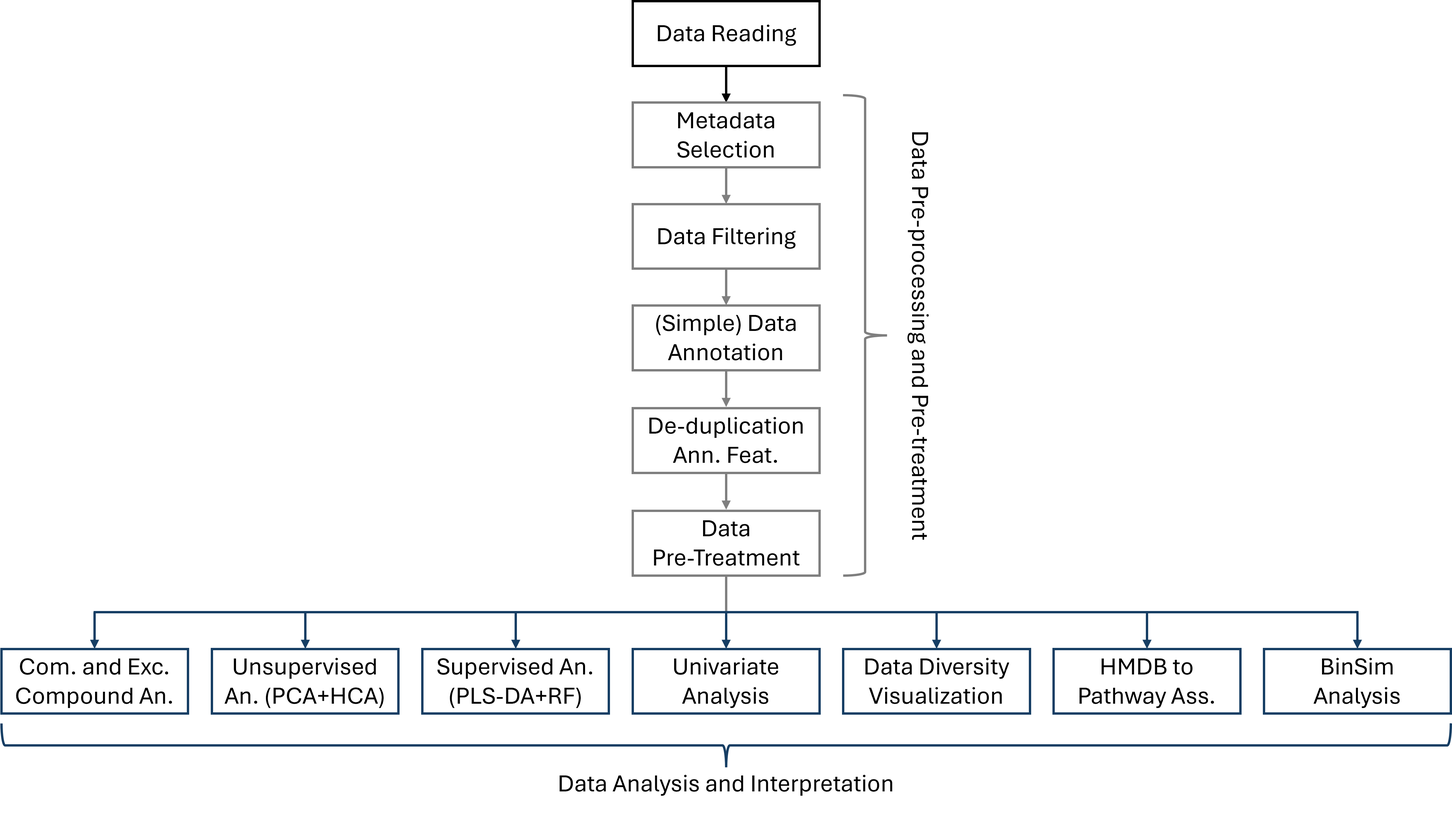
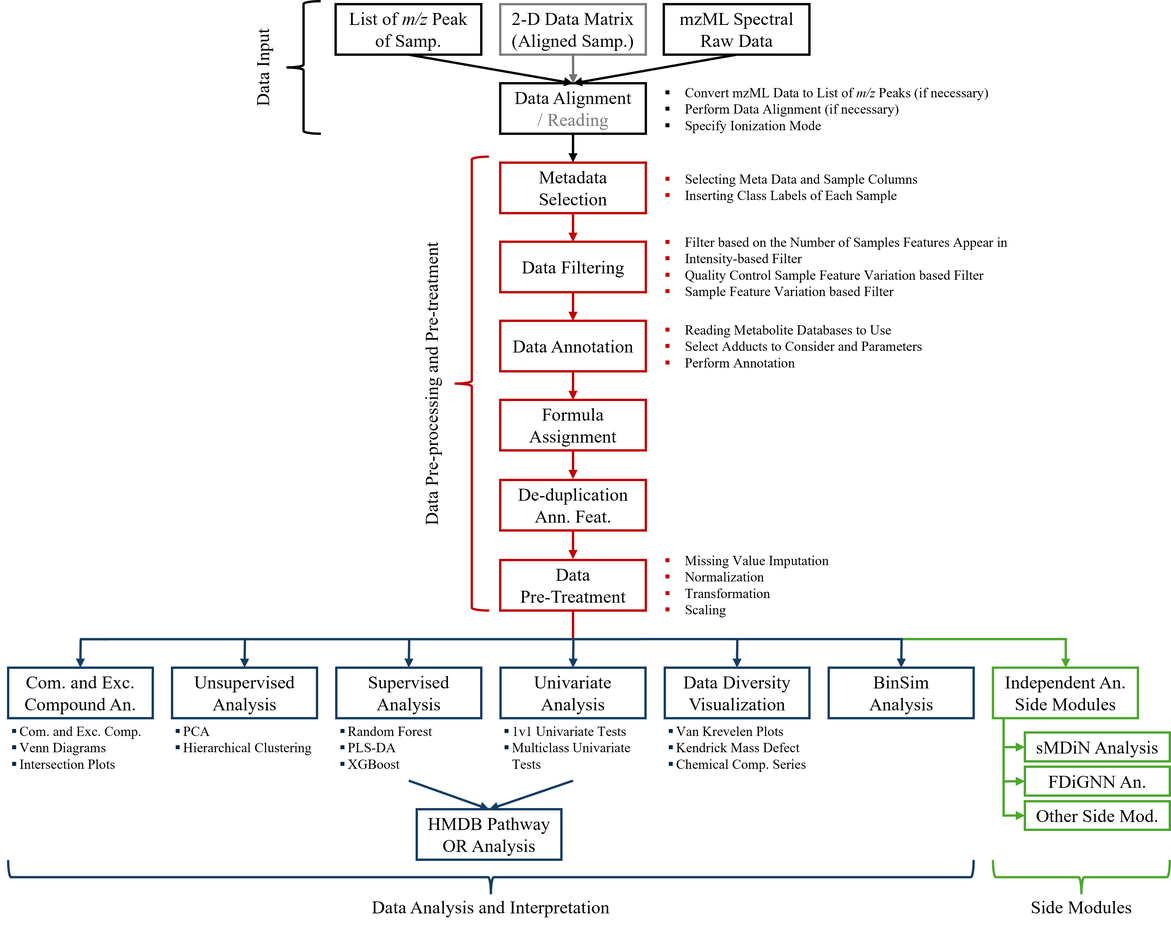
Updated some documentation.

diff --git a/MetsTA_DOCS/docs/GUI_docs.md b/MetsTA_DOCS/docs/GUI_docs.md
@@ -1,13 +1,15 @@
 
-## Starting the Graphical Interface of MetsTA
+## Starting the Graphical Interface of NEMeSIS
 
-I am still unsure of what will be the final version to open the graphical interface. 
+NEMeSIS incldues a large main program to perform the analysis from Data Tables to Biological Interpretation where most of this tutorial is focused. Other than this interface, a separated Data Alignment Software capable of converting mzML raw data to mass peak lists and alignment of mass peak lists to create data tables used as input for the main NEMeSIS program. For details and instructions on the latter see [Data Alignment Software](GUI_docs.md#data-alignment-software).
 
-**CHANGE THIS WHEN THE STARTING METHOD IS DECIDED.**
+## Opening NEMeSIS
 
-## Introduction to the Graphical Interface of MetsTA
+**TODO**!!!!!!!!!!!!!!!!!!!!!!!!!!!!!!!!!
 
-When opening the software, you are greeted with a page such as the one presented below that should open in your browser of choice. 
+## Introduction to the Graphical Interface of NEMeSIS
+
+When opening NEMeSIS, you are greeted with a page such as the one presented below that should open in your browser of choice.
 
 Here, you can see on the on the left-hand side of the page (in a black box), you get an index-like column with buttons for every main page of the software. Most will be locked off in the beginning since they require other steps to be completed first before accessing. This is the main way to access different pages in the software. The first button (`Home`) and initial homepage of the software leads you to an introduction of what this software is and what analysis steps it includes. The second button (`Considerations and Instructions`) takes you to a few explanations and clarification on the workings of the software, which are also present here at the end of the page in [Tips and Precautions](GUI_docs.md#tips-and-precautions). From then on, we go onto the data analysis pages.
 
@@ -17,15 +19,17 @@ The green box marks the main section where the page currently selected appears. 
 
 The data analysis pipeline is divided into 3 stages:
 
-1. Data Reading (a single page so it is in the Data Pre-Processing and Pre-Treatment section)
+1. Data Input (a single page in the Data Pre-Processing and Pre-Treatment section). Image als shows steps performed by the Data Alignment Software
 2. Data Pre-Processing and Pre-Treatment
 3. Data Analysis and Biological Intepretation (Statistical Analysis)
 
+Note: Independent Side Modules are only available in jupyter notebooks. See [Independent Side Modules](jupyter_docs.md#independent-side-modules) in the jupyter notebook page.
+
 ![GUI Structure](img/GUIStructure.png)
 
-## Stage 1: Data Reading
+## Stage 1: Data Input
 
-The first section of the data analysis pipeline is data reading, that is, the data you will input to the program and thus requires a strict formatting from the files. The software accepts already data tables with the raw data of the sample having already been previously aligned. From then on, the software is capable of performing the remaining data analysis.
+The first section of the data analysis pipeline is data reading, that is, the data you will input to the program and thus requires a strict formatting from the files. The software accepts already data tables with the raw data of the sample having already been previously aligned. From then on, the software is capable of performing the remaining data analysis. See [Data Alignment Software](GUI_docs.md#data-alignment-software) for instructions on how to obtain these data tables using our standalone Data Alignment Software from mzML raw data or peak lists.
 
 This formatting is exemplified in the figure below with the addition that files can either be `.csv` or `.xlsx` files. Metabolic Features should be represented in the rows, while samples and metadata should be represented in columns. 
 
@@ -33,7 +37,7 @@ The first column in your data must correspond to the identifier of your metaboli
 
 !!! danger
 
-    Avoid having a column named `Neutral Mass` in your data, since it will be overwritten.
+    Avoid having a column named `Neutral Mass` or `m/z` in your data, since it will be overwritten.
 
 The remaining columns are free to be any metadata you have in your data (green box) and the samples with the corresponding intensity values (purple box). If you are using LC-MS or GC-MS or any other kind of hyphenated method and have another column other than mass to characterize your features such as retention time, you can still analyse them and identify this columns as metadata but they will not be used for data annotation or any other step in the analysis.
 
@@ -49,13 +53,13 @@ After data is read, the next step of the analysis will be unlocked (loading an e
 
 ## Stage 2: Data Pre-Processing and Pre-Treatment
 
-The second stage of the software is the Data Pre-Processing and Pre-Treatment that includes many sub-sections: [Metadata Selection](GUI_docs.md#metadata-selection), [Data Filtering](GUI_docs.md#data-filtering), [Data Annotation](GUI_docs.md#data-annotation), [De-Duplication of Annotated Features](GUI_docs.md#de-duplication-of-ann-features) and [Data Pre-Treatment](GUI_docs.md#data-pre-treatment).
+The second stage of the software is the Data Pre-Processing and Pre-Treatment that includes many sub-sections: [Metadata Selection](GUI_docs.md#metadata-selection), [Data Filtering](GUI_docs.md#data-filtering), [Data Annotation](GUI_docs.md#data-annotation), [Formula Assignment](GUI_docs.md#formula-assignment), [De-Duplication of Annotated Features](GUI_docs.md#de-duplication-of-ann-features) and [Data Pre-Treatment](GUI_docs.md#data-pre-treatment).
 
 All these sections are mandatory and are progressed and unlocked one by one in a linear fashion. You can redo previous parts of the pre-treatment. If you **change any part of the pre-treatment**, posterior pre-treatment steps and statistical analysis will immediately **be locked** and will **erase previous statistical analysis** if any has been performed. This is to avoid situations where the user wanted to change the pre-treatment but forgot to re-apply posterior pre-treatment steps. Thus, it is necessary to keep coherency.
 
 #### Metadata Selection
 
-Here, you will be asked to select which columns of your data are metadata (non-sample columns). If this metadata includes formula assignment or metabolite compound annotation columns, you can select them in their corresponding spots so they can be used downstream as that. Furthermore, you can select a column that contains the mass values of your metabolic features, whether it is the `Neutral Mass` or `Probable m/z` columns created in the previous section or another prepared previously that will be used for `Data Annotation` (if `None` is chosen, `Data Annotation` cannot be performed). Other metadata will not be used in the analysis.
+Here, you will be asked to select which columns of your data are metadata (non-sample columns). If this metadata includes formula assignment or metabolite compound annotation columns, you can select them in their corresponding spots so they can be used downstream as that. Furthermore, you can select a column that contains the mass values of your metabolic features, whether it is the `Neutral Mass` or `Probable m/z` columns created in the previous section or another prepared previously that will be used for `Data Annotation` (if `None` is chosen, `Data Annotation` cannot be performed). Finally, you can select Quality Control (QC) samples that will be separated from the remaining ones (they will not be used in the statistical analysis but can be used for Quality Control Sample based Data Filtering). Other metadata will not be used in the analysis.
 
 After selecting it, either a target will try to be inferred from the name of your samples or it will be taken from your data (if it was present). In either case, you can edit your target to your needs, before confirming it and moving to the next section.
 
@@ -63,13 +67,23 @@ After selecting it, either a target will try to be inferred from the name of you
 
 #### Data Filtering
 
-Data Filtering is used to _clean_ the dataset of features that appear in very few samples. You can select to perform Data Filtering either by keeping features if they appear at least in **n** samples from the total number of samples in your dataset (`Total Samples` method) or in **n** samples of at least one specific class in your data (`Class Samples` method). This **n** is referred to as the _feature filter keyword_ and can go from 1 to the number of samples in your data in the first case or to the number of samples of your least populated class in the second. After Data Filtering, a small table detailing some characteristics of your data as well as your dataset will be shown.
+Data Filtering is used to _clean_ the dataset of features that appear in very few samples. You can select to perform Data Filtering by 4 different procedures.
+
+1) **Filtering based on the number of samples each feature appears in**. This will only include features that appear in a determined number **n** of either the total samples of the dataset (`Total Samples` method) or of at least the samples of one class (`Class Samples` method). It can be used, for example to filter experimental artifacts. This **n** is referred to as the _feature filter keyword_ and can go from 1 to the number of samples in your data in the first case or to the number of samples of your least populated class in the second.
+
+2) **Filtering based on intensity values**. This will filter metabolic features based on their intensity values as calculated by the mean or median over the samples they appear in, removing lower intensity features. A hard threshold with a set intensity value is used or a percentage based threshold where the percent lowest intensity of features are removed.
+
+3) **Filtering based on the feature variance of Quality Control samples**. Only available if you have at least three QC samples as selected in the previous page. This will eliminate features that have high variance in the quality control samples (where they should be equal) as estimated by relative standard deviation (standard deviation / mean) above a determined threshold, since that points that they are not reproducible. Features that do not appear in the QC samples are assumed to have 0 variance.
+
+4) **Filtering based on the feature variance of analysed samples**. This filtering is not recommended to use if you are looking for exclusive metabolic features in the classes of your datasets or if you aim to use feature occurrence data. It will filter out the lowest variance features across the samples since their intensity patterns would not be informative.
+
+After Data Filtering, a small table detailing some characteristics of your data as well as your dataset will be shown.
 
 #### Data Annotation
 
 Next up, we have Data Annotation. This step is only possible if you have a Mass column as selected in the earlier section (either created in the software based on mass values provided or previously obtained) that represents the masses of the metabolites detected as numbers. 
 
-You can skip this step by annotation with _0_ databases. Or you can select 1 to 5 databases to perform independent annotations. A database must have a compound ID column, a compound name column and a compound formula column (that is used to calculate the compound theoretical mass used for annotation). To use a database, it should be on the directory where MetsTA is located and you must provide a series of informations such as the file name and the column identifier of the ID, name and formula of the compounds. You will also be asked for an abbreviated name of the database to use (for example, HMDB for Human Metabolome Database).
+You can skip this step by selecting annotation with _0_ databases. Or you can select 1 to 5 databases to perform independent annotations. A database must have a compound ID column, a compound name column and a compound formula column (that is used to calculate the compound theoretical mass used for annotation). To use a database, it should be on the directory where NEMeSIS is located and you must provide a series of informations such as the file name and the column identifier of the ID, name and formula of the compounds. You will also be asked for an abbreviated name of the database to use (for example, HMDB for Human Metabolome Database). If the Database contains a column with KEGG compound IDs, this information will also be conserved in the annotation if and only if the column is named 'kegg'.
 
 After loading your desired databases, you can choose a maximum threshold of deviation between the theoretical masses of the compounds in the database and the neutral masses in the dataset. This can be a flat threshold (`Absolute Dalton Deviation`) or a parts per million based threshold (`PPM Deviation`) (1).
 { .annotate }
@@ -78,11 +92,15 @@ After loading your desired databases, you can choose a maximum threshold of devi
 
 Finally, you can decide which adducts to search by inputting the adduct name and consequent mass shift they cause on a neutral mass. This should be inputted in the following format "Adduct_Name : Mass_Shift_to_neutral_mass". As an example: "[M+H]+ : 1.007276451988935". The software automatically provides an example of common adducts to search based on if `Positive (m/z)` ([M+H]+, [M+Na]+, [M+K]+), `Negative (m/z)` ([M-H]-, [M+Cl]-) or `Neutral` ([M]) were chosen in Step 1.
 
-With these parameters selected, you can perform the annotation. The annotation is made by comparing the dataset's masses with the databases. Every compound in the database that fall within the error margin threshold chosen to a given metabolite feature is annotated to that feature. Thus, very often features have multiple annotations associated (for example, every isomer in a database will be annotated if one is). This annotation is based on the fact that the mass value of a feature is not enough to differentiate and choose between different isomers. The results of the annotation of our data based on an individual database is the creation of 3 metadata columns: for each metabolic feature, one has a list of compound IDs annotated, another of compound names and another of compound formulas (1). This is made independently for each database selected, that is, every single database selected will generate 3 new columns with their own annotations (2).
+With these parameters selected, you can perform the annotation. Before the annotation, all selected databases will be merged together. The annotation is made by comparing the dataset's masses with the databases. Every compound in the database that fall within the error margin threshold chosen to a given metabolite feature is annotated to that feature. Thus, very often features have multiple annotations associated (for example, every isomer in a database will be annotated if one is). This annotation is based on the fact that the mass value of a feature is not enough to differentiate and choose between different isomers. The results of the annotation of our data based on an individual database is the creation of 5 metadata columns: for each metabolic feature, one has a list of compound IDs annotated, another of compound names, another of compound formulas, another with the corresponding adducts and the last with the database where the annotated compounds were present (1). If KEGG compound IDs are detected in a database a 6th metadata column will be created with these KEGG IDs (2).
 { .annotate }
 
-1. The lists are in the same order in the 3 columns. Thus, the 3rd compound ID in its list corresponds to the 3rd compound name in its list.
-2. This is not ideal but avoids the issue of database merging leading to the same metabolite being represented multiple times due to a lack of a standardized metabolite identifier.
+1. The lists are in the same order in the 5 columns. Thus, the 3rd compound ID in its list corresponds to the 3rd compound name in its list.
+2. The KEGG ID columns are detected by their name - the name must be 'kegg'.
+
+#### Formula Assignment
+
+Blah blah, Lorem Ipsum even maybe a bit of dolor.
 
 #### De-Duplication of Ann. Features
 
@@ -200,19 +218,19 @@ The report generation creates a folder with a user chosen name. This folder cont
 
 !!! note
 
-    If you find a mistake in the generated report, such as a parameter used in the analysis not being the one that is in the report or in the associated figures, please inform us thorugh [https://github.com/fticr-sms/Metabolomics_DataAnalysis_Pipeline/issues](https://github.com/fticr-sms/Metabolomics_DataAnalysis_Pipeline/issues). We would greatly appreciate so we can iron out any loose ends and problems with the software.
+    If you find a mistake in the generated report, such as a parameter used in the analysis not being the one that is in the report or in the associated figures, please inform us through [https://github.com/fticr-sms/Metabolomics_DataAnalysis_Pipeline/issues](https://github.com/fticr-sms/Metabolomics_DataAnalysis_Pipeline/issues). We would greatly appreciate so we can iron out any loose ends and problems with the software.
 
 Parameter saving is a function that specifically aims to save the **currently used parameters** in the analysis for future use on another analysis. It is available at two different locations in the interface: at the end of the data pre-processing and pre-treatment stages and in the report generation page. The former only saves parameters regarding the data pre-processing and pre-treatment steps while the latter saves all currently used parameters in the software. Although most more significant parameters are saved, there are some that cannot be saved since they are very specific to the dataset currently under analysis. A few examples are the metadata columns selected or the control/test class used in Univariate Analysis.
 
-The idea behind parameter saving is that you can load in these parameters and the `Data Reading` page of the software to use in other posterior analysis. Furthermore, when loading in there are some parameters that might not be applicable to the current case such as the feature used in Normalization by a Reference Feature or the minimum number of samples used in data filtering. For these cases, a check will be made to see if they can be used and if not, the default value will remain.
+The idea behind parameter saving is that you can load in these parameters and the `Data Reading` page of the software to use in other posterior analysis. Furthermore, when loading in parameters, there are some parameters that might not be applicable to the current case such as the feature used in Normalization by a Reference Feature or the minimum number of samples used in data filtering. For these cases, a check will be made to see if they can be used and if not, the default value will remain.
 
 !!! warning
 
-    Some parameters are saved but should still always be adapted based on the dataset analyse. A case and point is that of the number of components used for building PLS-DA models. This number highly affects the performance of the models and is characteristic of the dataset used. Thus it should always be adapted to the current dataset. Other parameters such as pre-treatment related can be used on a standard preferred pipeline independent of the dataset analysed.
+    Some parameters are saved but should still always be adapted based on the dataset analysed. A case and point is that of the number of components used for building PLS-DA models. This number highly affects the performance of the models and is characteristic of the dataset used. Thus, it should always be adapted to the current dataset. Other parameters such as pre-treatment related can be used on a standard preferred pipeline independent of the dataset analysed.
 
 !!! info
 
-    Within the saved parameters, there are some that are saved based on what is currently present in the program and not what was originally used for the analysis: these are the methods used for the common and exclusive compound analysis, the minimum and maximum number of components used for optimization of the PLS-DA, the model performance evaluation metrice used, the dpi of the permutation figure and number of iterations used in the ROC analysis of the PLS-DA section (for both intensity treated data and BinSim treated data) and the model performance evaluation metrice used and the dpi of the permutation figure of the Random Forest section (for both intensity treated data and BinSim treated data).
+    Within the saved parameters, there are some that are saved based on what is currently present in the program and not what was originally used for the analysis: these are the methods used for the common and exclusive compound analysis, the minimum and maximum number of components used for optimization of the PLS-DA, the model performance evaluation metrice used, the dpi of the permutation figure and number of iterations used in the ROC analysis of the PLS-DA section (for both intensity treated data and BinSim treated data) and the model performance evaluation metrics used and the dpi of the permutation figure of the Random Forest section (for both intensity treated data and BinSim treated data).
 
 ## Closing and Resetting the Software
 
@@ -223,6 +241,8 @@ If you want to redo your analysis with another dataset, you may use the `RESET` 
 !!! bug
 
     After resetting the software once using the `RESET` button, when clicking it again, the window pane to confirm the reset might not appear. To fix this issue, refresh the image and it should appear once again.
+
+## Data Alignment Software Instructions
 
 ## Tips and Precautions
 

diff --git a/MetsTA_DOCS/docs/index.md b/MetsTA_DOCS/docs/index.md
@@ -1,11 +1,11 @@
-# Welcome to MetsTA
+# Welcome to NEMeSIS
 
-MetsTA (**Met**abolomic**s** **T**reatment and **A**nalysis Software) is a software geared towards FT-ICR-MS extreme-resolution mass spectrometry data. For this objective, it offers a complete pipeline from **aligned data tables to data interpretation** in two different formats (both built with the Python programming language) based on the users preference.
+NEMeSIS (**N**ovel **E**xtreme-resolution **Me**tabolomics **S**treamlined data analysis **I**ntegrated **S**oftware) is a software geared towards FT-ICR-MS extreme-resolution mass spectrometry data. For this objective, it offers a complete pipeline from **raw data (in mzML format) or peak lists to data interpretation** in two different formats (both built with the Python programming language) based on the users preference.
 
-- Jupyter Notebook for a more hands on approach for intermediate (or higher) experienced Python users to take advantage of the implemented metabolomics data analysis workflow and customize it to their liking. The file to start to experience MetsTA in this way is `Met_Data_Analysis_Standard.ipynb` - see details on [Get started with jupyter](jupyter_docs.md) page.
+- Jupyter Notebook for a more hands on approach for intermediate (or higher) experienced Python users to take advantage of the implemented metabolomics data analysis workflow and customize it to their liking. The file to start to experience NEMeSIS in this way is `Met_Data_Analysis_Standard.ipynb` - see details on [Get started with jupyter](jupyter_docs.md) page.
 - Graphical Interface for a more streamlined experience for non-experienced Python users where no coding knowledge is necessary and results are shown in an interactive format. The file to start to experience MetsTA in this way is `InterfacePrototype_Standard.py`. Detailed instructions and ways to start up the program are in the [Get started with GUI](GUI_docs.md) page.
 
-Here, on this page, we will detail on how to install this software and dependencies to run them. Then, we will have a separate page for each main way to use MetsTA with a tutorial on how to use them.
+Here, on this page, we will detail on how to install this software and dependencies to run them. Then, we will have a separate page for each main way to use NEMeSIS with a tutorial on how to use them.
 
 Software made by: **FT-ICR and Structural Mass Spectrometry Laboratory, BioISI, Faculdade de Ciências da Universidade de Lisboa** ([http://ft-icr.rd.ciencias.ulisboa.pt/](http://ft-icr.rd.ciencias.ulisboa.pt/)).
 
@@ -14,9 +14,9 @@ If you use this software in your untargeted metabolomcis data analysis, we would
 - Paper Link: <strong>(LINK)</strong><br>
 - Citation: <strong>(CITATION)</strong>
 
-## Installing MetsTA
+## Installing NEMeSIS
 
-MetsTA is currently available as an open source software that can be downloaded or cloned from [https://github.com/fticr-sms/Metabolomics_DataAnalysis_Pipeline](https://github.com/fticr-sms/Metabolomics_DataAnalysis_Pipeline). This includes a `venn.py`file originally provided in [https://github.com/tctianchi/pyvenn/blob/master/venn.py](https://github.com/tctianchi/pyvenn/blob/master/venn.py) and used according to its license. It is a Python-based software and does requires the Python programming language and has many dependencies on different Python packages.
+NEMeSIS is currently available as an open source software that can be downloaded or cloned from [https://github.com/fticr-sms/Metabolomics_DataAnalysis_Pipeline](https://github.com/fticr-sms/Metabolomics_DataAnalysis_Pipeline). This includes a `venn.py` file originally provided in [https://github.com/tctianchi/pyvenn/blob/master/venn.py](https://github.com/tctianchi/pyvenn/blob/master/venn.py) and used according to its license. It is a Python-based software and does requires the Python programming language and has many dependencies on different Python packages.
 
 ### Installing Python and other packages with Anaconda
 
@@ -38,15 +38,16 @@ conda install -c conda-forge holoviews
 conda install -c plotly plotly
 pip install python-docx==1.1.0
 pip install kaleido==0.1.0post1
+pip install pyopenms
 ```
 
 !!! tip
 
-    If you cannot use `conda` on your command line, use the AnacondaPrompt.
+    If you cannot use `conda` on your command line, use AnacondaPrompt.
 
 ##### Installing with requirements.txt
 
-On the command line (or the AnacondaPrompt) in your pc, go inside the directory where you have installed MetsTA or open the command line directly in this directory. Then run the following line:
+On the command line (or the AnacondaPrompt) in your pc, go inside the directory where you have installed NEMeSIS or open the command line directly in this directory. Then run the following line:
 
 ```
 pip install -r requirements.txt
@@ -56,5 +57,5 @@ This will install using `pip` all the packages used in the software (including s
 
 ### Databases for Annotation
 
-The Git-Hub repository includes currently 2 databases (as `.csv` or `.xlsx` files) last updated in Februaary 2023 that you may use for annotation in the software. These are from the Human Metabolome Database ([HMDB](10.1093/nar/gkab1062), [https://hmdb.ca/](https://hmdb.ca/)) for human related metabolites and the [LOTUS Database](https://doi.org/10.7554/eLife.70780) ([https://lotus.naturalproducts.net/](https://lotus.naturalproducts.net/)) for natural products.
+The Git-Hub repository includes currently 2 databases (as `.csv` or `.xlsx` files) last updated in February 2023 that you may use for annotation in the software. These are from the Human Metabolome Database ([HMDB](10.1093/nar/gkab1062), [https://hmdb.ca/](https://hmdb.ca/)) for human related metabolites and the [LOTUS Database](https://doi.org/10.7554/eLife.70780) ([https://lotus.naturalproducts.net/](https://lotus.naturalproducts.net/)) for natural products.
 

diff --git a/MetsTA_DOCS/docs/release_notes.md b/MetsTA_DOCS/docs/release_notes.md
@@ -1,7 +1,18 @@
 
-This page includes the release notes for both jupyter notebook and graphical interface versions of the MetsTA software (independent from one another).
+This page includes the release notes for both jupyter notebook and graphical interface versions of the NEMeSIS software (independent from one another).
 
 ## Jupyter Notebook Version Release Notes
+
+**V2.8 - Raw Data Processing, Improved Data Annotation, Pathway Analysis and FDiGNN side module (09/09/2025)**
+
+- Added raw data spectra processing as a side module to process mzML data.
+- Improved Data Annotation where chosen databases are merged together into a complete database before perfoming annotations (made associated changes).
+- Small improvement on allowed mass deviation calculation for formula assignment.
+- Improved intersection plot section and adding intersection plot colouring chemical compound classes.
+- Re-structured pathway analysis section to select more conservative background sets (metabolites detected in the data) and 'significant' metabolites based on univariate or multivariate analysis.
+- Added mapping formulas to pathway and pathway representation in pathways analysis section (only SMPDB pathways).
+- Added a side module with FDiGNN analysis as a standalone jupyter notebook as example of independent analysis modules.
+- Minor bugfixes and improvements in text.
 
 **V2.7 - Data Filtering, Score-based Formula Assignment, Improved Peak De-duplication (19/02/2025)**
 
@@ -138,6 +149,15 @@ This page includes the release notes for both jupyter notebook and graphical int
 <br>
 
 ## Graphical Interface Version Release Notes
+
+**Version Beta.0 (09/09/2025)**
+
+- Added raw data spectra processing section to the DataAlignment specific interface.
+- Improved Data Annotation where chosen databases are merged together into a complete database before perfoming annotations (made associated changes).
+- Changed Formula Assignment to the score-based Formula Assignment. Small improvement on allowed mass deviation calculation.
+- Re-structured pathway analysis section to select more conservative background sets (metabolites detected in the data) and 'significant' metabolites based on univariate or multivariate analysis.
+- Added mapping formulas to pathway and pathway representation in pathways analysis section (only SMPDB pathways).
+- Minor bugfixes and improvements in text.
 
 **Version Alpha.5 (19/02/2025)**
 
